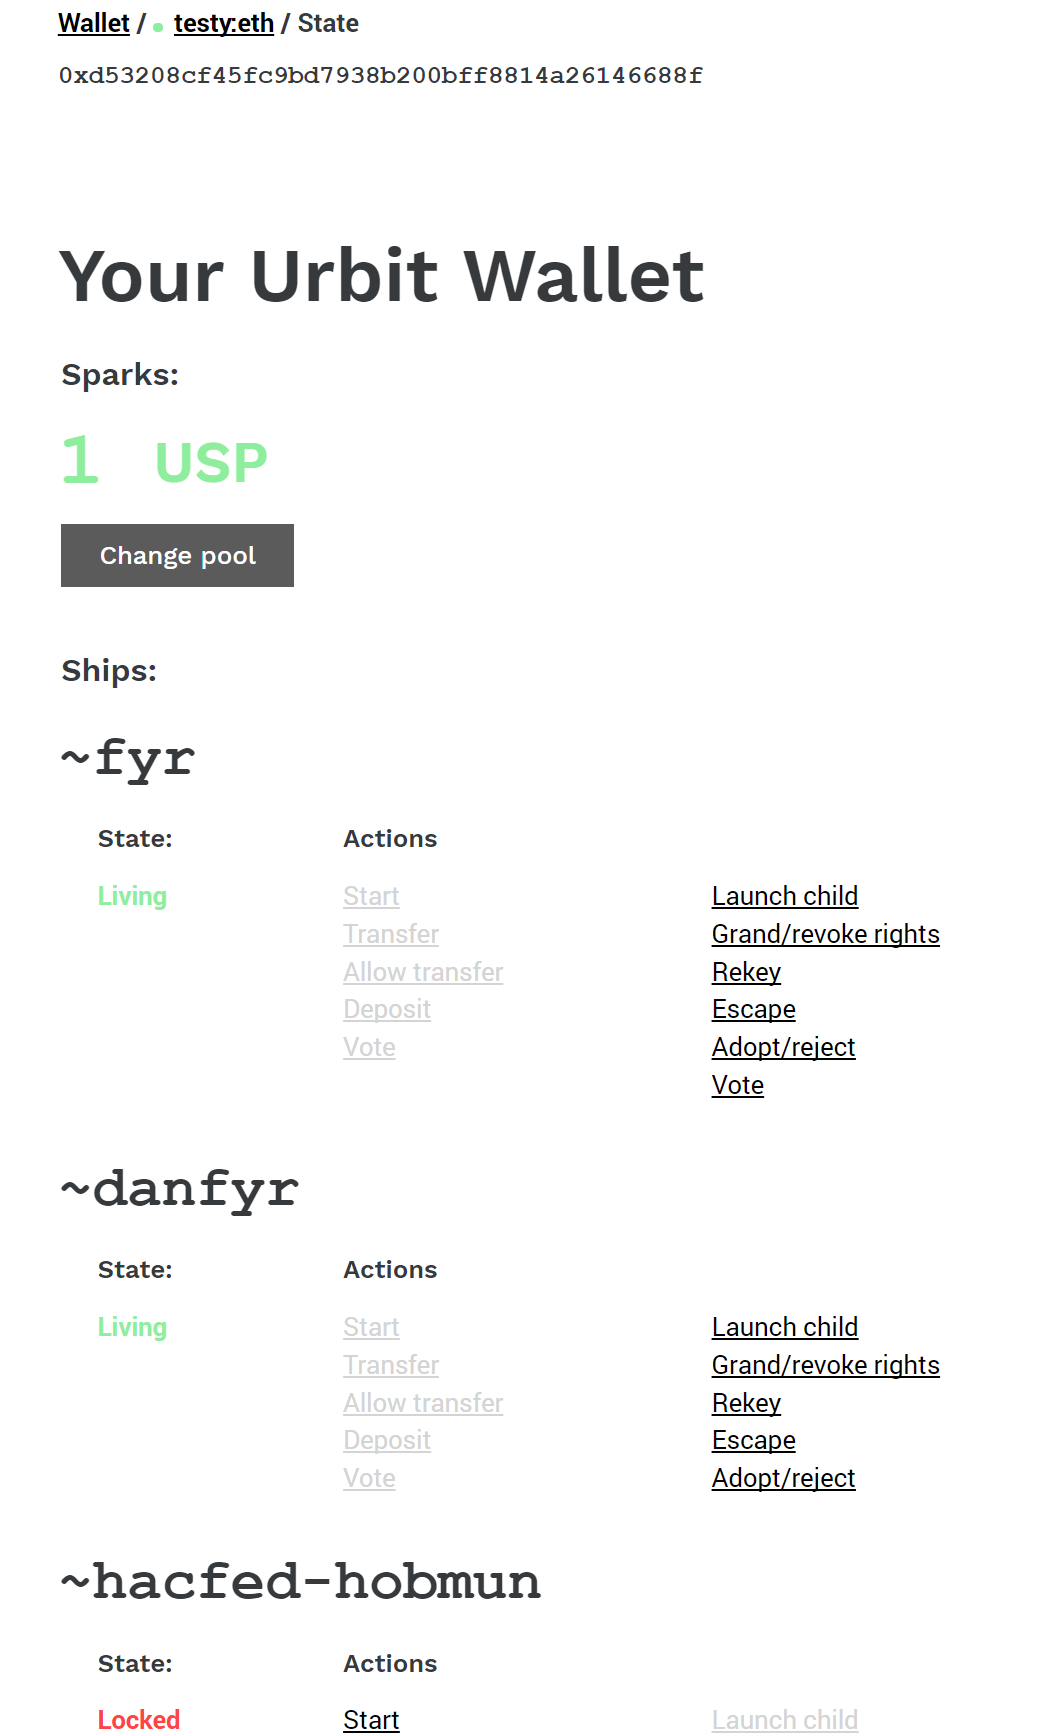
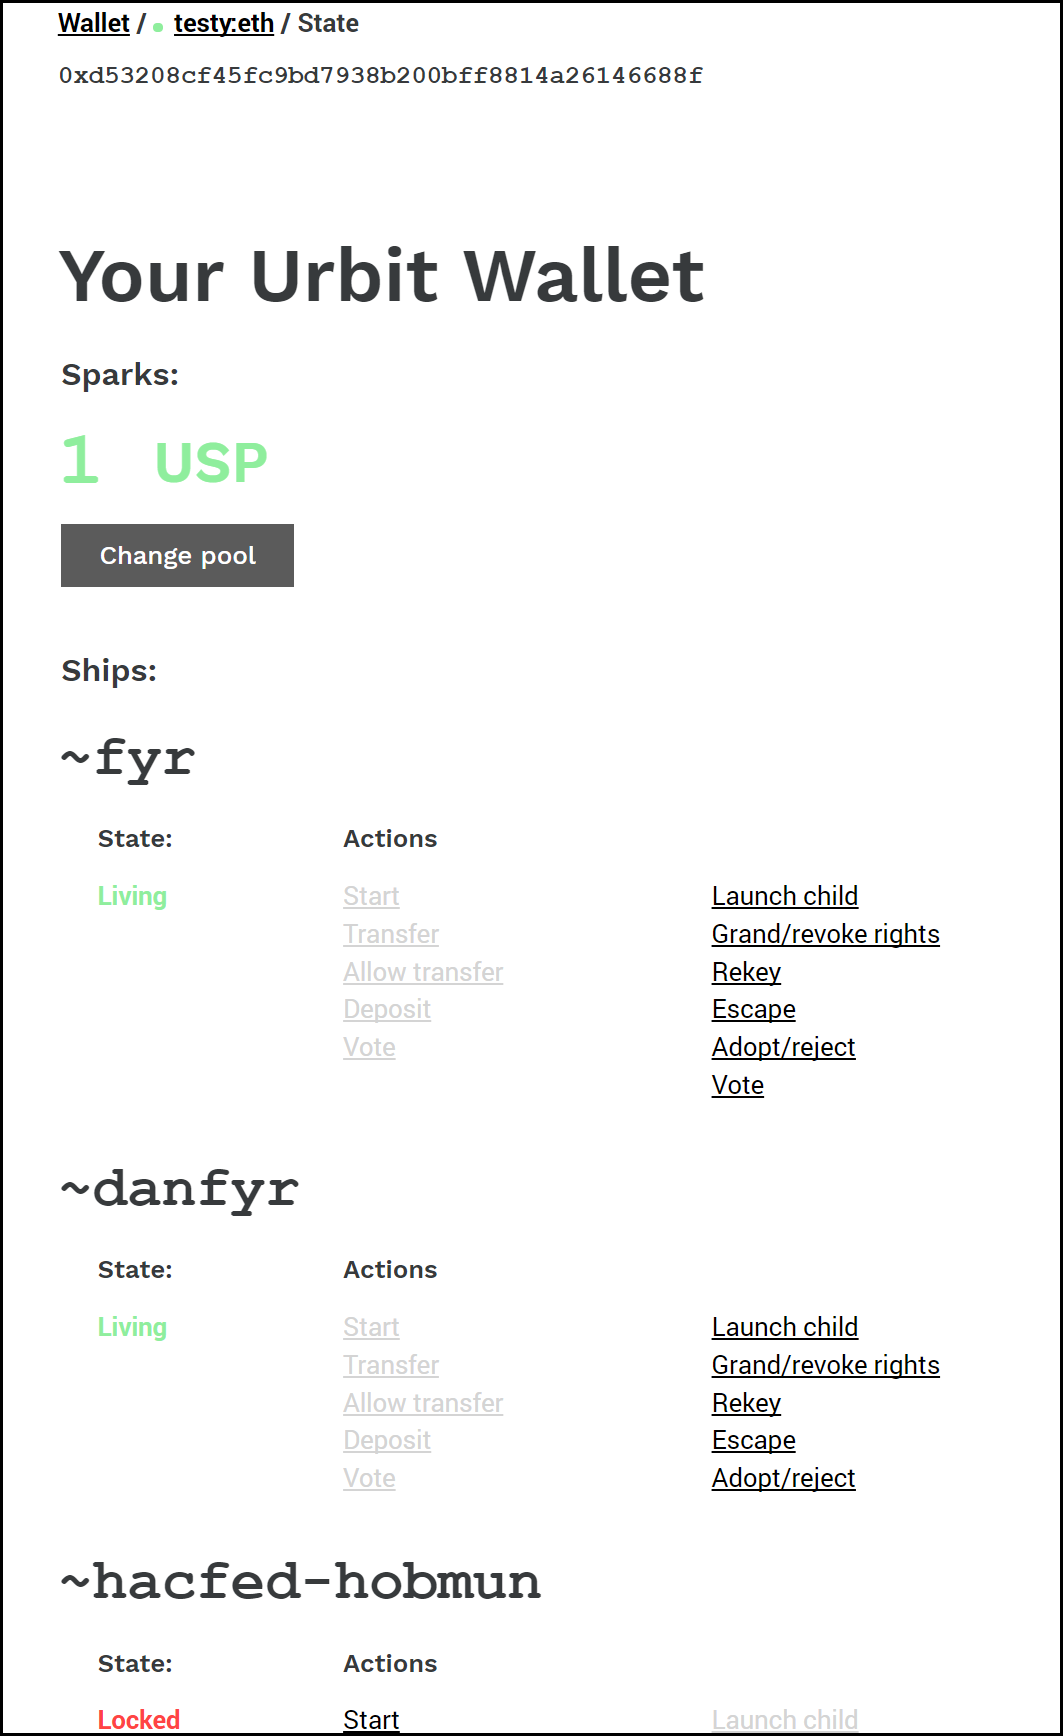
center and resize images

Changed region(s): [[0.0, 0.0, 1.0, 1.0], [0.0, 0.0, 0.031, 0.0311]]

diff --git a/README.md b/README.md
@@ -41,7 +41,10 @@ with actions available for that Ship. It will also allow you to connect to a Poo
 which is an exchange for exchanging Stars for Spark Tokens and vice versa. If a Pool 
 is connected, you will see your address' Spark balance.
 
-<img src="./app/images/muw_state_border.png" width="50%"/>
+<div style="text-align: center">
+  <img src="./app/images/muw_state_border.png" width="50%"/>
+</div>
+<br/>
 
 Below each ship, you will see a list of actions that corresponds to that ship's type 
 (Galaxy, Star, Planet) and state (Locked or Living). In the default online mode 
@@ -57,11 +60,14 @@ creates and signs the transaction. The display will show both the signed and
 unsigned transactions for approval. Once you've created a transaction, you can press 
 "Send," which will send the transaction to the Ethereum node to which your wallet 
 is connected and you'll be shown a confirmation (or warning) dialogue, giving you 
-the hash of the transaction.
+the hash of the transaction. 
 
 When you're done, you can navigate back to the State screen to execute other transactions.
 
-<img src="./app/images/muw_launch_border.png" width="50%"/>
+<div style="text-align: center">
+  <img src="./app/images/muw_launch_border.png" width="50%"/>
+</div>
+<br/>
 
 ### Offline Mode
 
